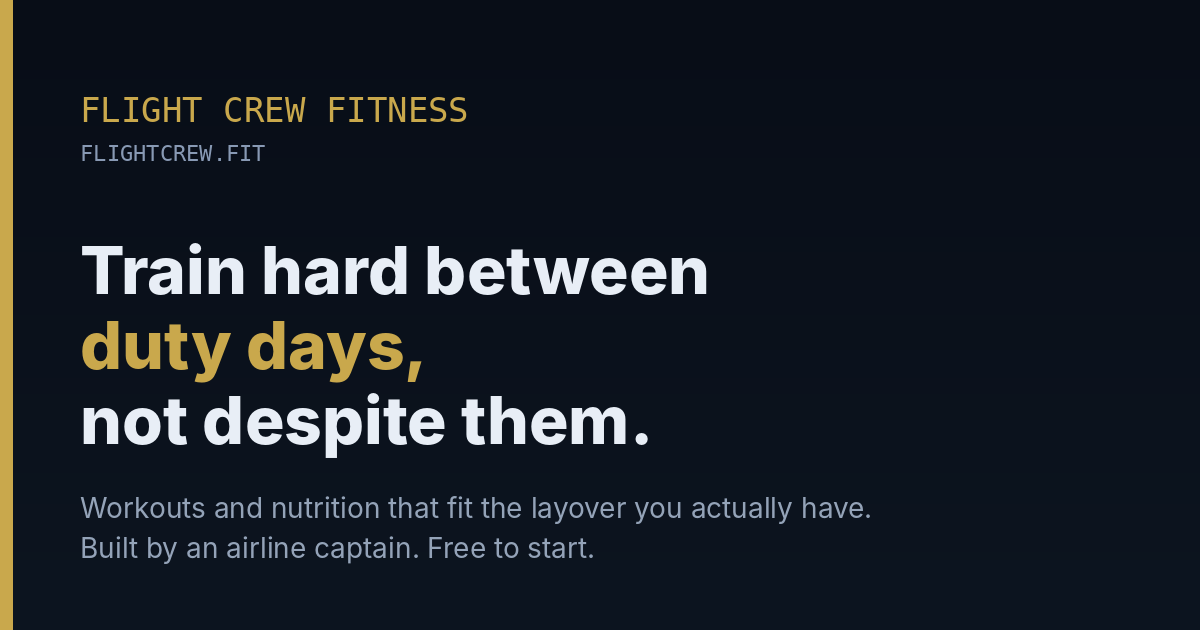
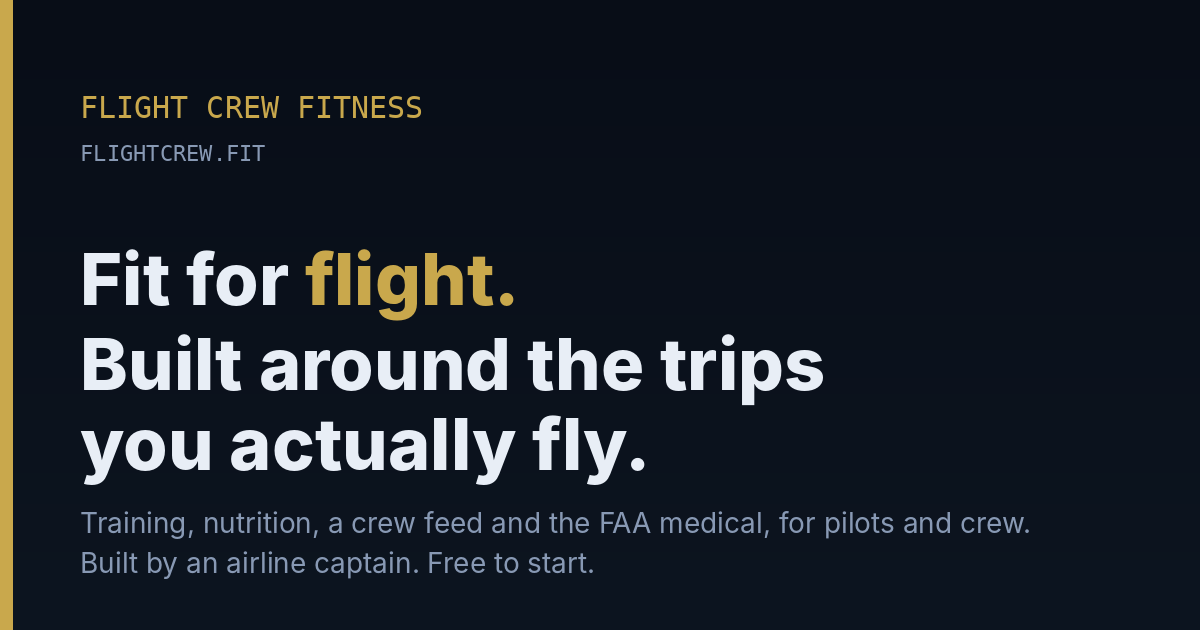
v5.47.0: FAA Medical open to every member; new tagline and landing pitch (medical, schedule, crew feed, runner)
Claude-Session: https://claude.ai/code/session_01BVoUbFk8xAKqzKGPpffvm6

Changed region(s): [[0.0617, 0.3921, 0.8633, 0.9349], [0.0617, 0.1508, 0.4008, 0.2111]]

diff --git a/index.html b/index.html
@@ -10,7 +10,7 @@
 <meta name="apple-mobile-web-app-status-bar-style" content="black-translucent">
 <meta name="apple-mobile-web-app-title" content="Flight Crew Fitness">
 <meta name="theme-color" content="#0a0f1a">
-<meta name="description" content="Flight Crew Fitness is the workout and nutrition app for airline pilots and flight crew. Training that adapts to your layover, hotel gym, fatigue and crew schedule. Built by an airline captain. Free to start.">
+<meta name="description" content="Flight Crew Fitness is the workout, nutrition and FAA medical app for airline pilots and flight crew. Training that adapts to your crew schedule, hotel gym and sleep, a crew feed, and medical readiness. Built by an airline captain. Free to start.">
 <link rel="canonical" href="https://flightcrew.fit/">
 <meta property="og:title" content="Flight Crew Fitness: Workout App for Pilots and Flight Crew">
 <meta property="og:description" content="Workouts and nutrition that fit the layover you actually have. Built by an airline captain. Free to start.">
@@ -19,7 +19,7 @@
 <meta property="og:image" content="https://flightcrew.fit/og-image.png">
 <meta property="og:image:width" content="1200">
 <meta property="og:image:height" content="630">
-<meta property="og:image:alt" content="Flight Crew Fitness: Train hard between duty days, not despite them.">
+<meta property="og:image:alt" content="Flight Crew Fitness: Fit for flight. Built around the trips you actually fly.">
 <meta property="og:site_name" content="Flight Crew Fitness">
 <meta name="twitter:card" content="summary_large_image">
 <meta name="twitter:title" content="Flight Crew Fitness: Workout App for Pilots and Flight Crew">
@@ -37,7 +37,7 @@
       "url": "https://flightcrew.fit/",
       "applicationCategory": "HealthApplication",
       "operatingSystem": "Web, iOS",
-      "description": "Workout and nutrition app for airline pilots and flight crew. Training that adapts to your layover, hotel gym, fatigue and crew schedule.",
+      "description": "Workout, nutrition and FAA medical readiness app for airline pilots and flight crew. Training that adapts to your crew schedule, hotel gym and sleep, with a crew feed and a medication check against the FAA lists.",
       "image": "https://flightcrew.fit/og-image.png",
       "offers": {
         "@type": "Offer",
@@ -61,7 +61,7 @@
         {
           "@type": "Question",
           "name": "Is Flight Crew Fitness free?",
-          "acceptedAnswer": { "@type": "Answer", "text": "Yes. Workout logging, basic trends, hydration and pre-flight reminders, and medication and supplement reminders are free with no credit card. Pro adds the AI coach, unlimited food photo analysis, full trends history, Oura direct connect and more." }
+          "acceptedAnswer": { "@type": "Answer", "text": "Yes. Workout logging, basic trends, hydration and pre-flight reminders, medication and supplement reminders, the crew feed and the FAA Medical page are free with no credit card. Pro adds the AI coach, unlimited food photo analysis, full trends history, Oura direct connect and more." }
         },
         {
           "@type": "Question",
@@ -72,6 +72,11 @@
           "@type": "Question",
           "name": "Does it use my crew schedule?",
           "acceptedAnswer": { "@type": "Answer", "text": "Yes. Import your duty days and the app plans training and nutrition around duty events, layovers and commuter days instead of a nine to five you do not have." }
+        },
+        {
+          "@type": "Question",
+          "name": "Does the app send my medical information anywhere?",
+          "acceptedAnswer": { "@type": "Answer", "text": "No. Everything on the FAA Medical page, including certificate dates, medications, vision results and the PIN, stays on the phone. It is not synced, not sent to the AI coach, and not included in the data export." }
         },
         {
           "@type": "Question",
@@ -420,9 +425,9 @@ a{color:inherit}
   <header class="landing-hero">
     <div class="fb" style="align-items:flex-start"><div class="landing-logo">✈ FLIGHT CREW FITNESS</div>
     <div id="zuluClock" style="font-family:var(--mono);font-size:0.6875rem;color:var(--muted);letter-spacing:0.05em;white-space:nowrap"></div></div>
-    <div class="landing-tag">THE WORKOUT AND NUTRITION APP FOR PILOTS AND FLIGHT CREW</div>
-    <h1 class="landing-h1">Train hard between <span class="accent">duty days</span>, not despite them.</h1>
-    <p class="landing-sub">A workout system that adapts to your gym access, your fatigue level, and your crew schedule, whether you're home, on layover, or stuck with nothing but a hotel room.</p>
+    <div class="landing-tag">WORKOUTS, NUTRITION AND THE FAA MEDICAL, FOR PILOTS AND FLIGHT CREW</div>
+    <h1 class="landing-h1">Fit for <span class="accent">flight</span>. Built around the trips you actually fly.</h1>
+    <p class="landing-sub">Training that reads your crew schedule, your sleep and the room you are in. Nutrition that survives a four-day. A crew feed to keep you honest. And the FAA medical, tracked the way an AME reads it.</p>
     <div class="landing-cta">
       <button class="btn btn-gold" onclick="ST.showLanding=false;ST.authMode='signup';renderRoot()">Get Started Free</button>
       <button class="btn btn-outline mt8" onclick="ST.showLanding=false;ST.authMode='signin';renderRoot()">I have an account</button>
@@ -432,6 +437,10 @@ a{color:inherit}
 
   <section class="landing-section">
     <h2 class="landing-section-title">Why pilots need a different program</h2>
+    <div class="feature-row"><div class="feature-icon">🩺</div><div class="feature-text"><h4>FAA medical, tracked the way your AME reads it</h4><p>Enter your class, seat and exam date and see the exact day each privilege ends, whether an ECG is due, and how your blood pressure, glucose and weight sit against the FAA lines. Check any medication or supplement against the FAA do-not-issue and do-not-fly lists, nearly 300 drugs with plain-language notes. Test your near, mid and distance vision on the phone. Everything stays on your device.</p></div></div>
+    <div class="feature-row"><div class="feature-icon">📅</div><div class="feature-text"><h4>Reads your crew schedule</h4><p>Import your trips and the app knows a 10-hour layover from a 26-hour one, a commute day from a reserve day, and plans training and meals around what you are actually doing.</p></div></div>
+    <div class="feature-row"><div class="feature-icon">👥</div><div class="feature-text"><h4>Crew feed</h4><p>Opt in under a call sign and every workout posts to a feed of other pilots and crew: kudos, comments, follow people, and a board of who is training at your base this month. Share your workout as a picture to Instagram or Messages. No location beyond the airport code you choose to show.</p></div></div>
+    <div class="feature-row"><div class="feature-icon">🏃</div><div class="feature-text"><h4>Runner mode</h4><p>Pick the Runner objective and get a weekly mileage plan that fits around your trips: easy days, one long run, one strength day placed away from it, plus best efforts at the mile, 5K, 10K and half, and a monthly miles challenge.</p></div></div>
     <div class="feature-row"><div class="feature-icon">🌍</div><div class="feature-text"><h4>Environment-aware workouts</h4><p>Every session adapts automatically to Commercial Gym, Hotel Gym, Hotel Room, or just resistance bands. No equipment excuses.</p></div></div>
     <div class="feature-row"><div class="feature-icon">🚦</div><div class="feature-text"><h4>Fatigue-gated intensity</h4><p>A pilot condition toggle (Go / Marginal / No-Go) reduces or removes heavy lifting when you're running on insufficient rest, auto-set from Apple Health if you sync a wearable, or a 15-second self-check if you don't.</p></div></div>
     <div class="feature-row"><div class="feature-icon">⌚</div><div class="feature-text"><h4>Wearable auto-sync</h4><p>Connect once via Apple Health and your daily readiness, sleep, HRV, resting heart rate, steps, and workouts drive your training automatically. It works with Apple Watch, Oura, Whoop, Garmin, or anything else that writes to Health. Connect Oura directly for its own full readiness score.</p></div></div>
@@ -440,10 +449,10 @@ a{color:inherit}
     <div class="feature-row"><div class="feature-icon">🎖</div><div class="feature-text"><h4>Badges for reaching goals</h4><p>Hit a personal record, a training streak, or a milestone and it gets recognized automatically, pulled from your real logged history, not just a login count.</p></div></div>
     <div class="feature-row"><div class="feature-icon">🩹</div><div class="feature-text"><h4>Injury-aware programming</h4><p>Flag a sore shoulder or knee and the app automatically swaps in a safer alternative where one exists, or flags the exercise so you can decide, instead of just handing you the same plan regardless.</p></div></div>
     <div class="feature-row"><div class="feature-icon">⏱</div><div class="feature-text"><h4>Fits the time you actually have</h4><p>Tell it how much time you've got and it trims the session to fit, protecting your warmup and cooldown, never your actual lift.</p></div></div>
-    <div class="feature-row"><div class="feature-icon">🎯</div><div class="feature-text"><h4>Goal-driven programming</h4><p>Nine mission objectives (from Walking First and Runner to Glute Emphasis and Overall Strength), each with real, distinct exercise programming behind it, not just a label.</p></div></div>
+    <div class="feature-row"><div class="feature-icon">🎯</div><div class="feature-text"><h4>Goal-driven programming</h4><p>Nine mission objectives, from Walking First and Runner to Glute Emphasis and Overall Strength, each with real, distinct programming behind it, not just a label.</p></div></div>
     <div class="feature-row"><div class="feature-icon">💧</div><div class="feature-text"><h4>Hydration math built in</h4><p>0.3L per flight hour, with a sensible floor on no-fly days. The app tells you exactly how much to drink and when.</p></div></div>
     <div class="feature-row"><div class="feature-icon">🛫</div><div class="feature-text"><h4>Aviation-phased structure</h4><p>Every workout follows Taxi (warmup), Takeoff (heavy), En Route (volume), Landing (decompression): a logical, recoverable structure, not just a random exercise list.</p></div></div>
-    <div class="feature-row"><div class="feature-icon">📊</div><div class="feature-text"><h4>Real biometric tracking</h4><p>Weight, waist, blood pressure, and fasting glucose, with the actual clinical protocol for measuring each one correctly. Watch the numbers your AME reads move before your next medical.</p></div></div>
+    <div class="feature-row"><div class="feature-icon">📊</div><div class="feature-text"><h4>Real biometric tracking</h4><p>Weight, waist, blood pressure, and fasting glucose, with the clinical protocol for measuring each one correctly. The FAA Medical page shows the same numbers against the lines your AME uses.</p></div></div>
     <div class="feature-row"><div class="feature-icon">💊</div><div class="feature-text"><h4>Meds and supplements on schedule</h4><p>Log anything you take, from creatine to prescriptions, with the dose and times. Check doses off on your Today screen, get a phone reminder when one is due, and include the history in your data export for AI analysis. Private to your account.</p></div></div>
     <div class="feature-row"><div class="feature-icon">📶</div><div class="feature-text"><h4>Works with no signal</h4><p>Keeps working with zero connectivity: at altitude, in a dead-zone layover hotel, wherever.</p></div></div>
   </section>
@@ -466,9 +475,10 @@ a{color:inherit}
 
   <section class="landing-section" style="background:var(--bg2)" id="faq">
     <h2 class="landing-section-title">Questions pilots ask</h2>
-    <div class="feature-text" style="margin-bottom:18px"><h4>Is it free?</h4><p>Yes. Workout logging, basic trends, hydration and pre-flight reminders, and medication and supplement reminders are free, with no credit card. Pro adds the AI coach, unlimited food photo analysis, full trends history, Oura direct connect and more.</p></div>
+    <div class="feature-text" style="margin-bottom:18px"><h4>Is it free?</h4><p>Yes. Workout logging, basic trends, hydration and pre-flight reminders, medication and supplement reminders, the crew feed and the FAA Medical page are free, with no credit card. Pro adds the AI coach, unlimited food photo analysis, full trends history, Oura direct connect and more.</p></div>
     <div class="feature-text" style="margin-bottom:18px"><h4>Does it work in a hotel room with no equipment?</h4><p>Yes. Hotel room sessions use no jumping, so thin floors and downstairs neighbours are not a problem.</p></div>
     <div class="feature-text" style="margin-bottom:18px"><h4>Does it use my crew schedule?</h4><p>Yes. Import your duty days and the app plans training and nutrition around duty events, layovers and commuter days.</p></div>
+    <div class="feature-text" style="margin-bottom:18px"><h4>Does the app send my medical information anywhere?</h4><p>No. Everything on the FAA Medical page, your certificate dates, medications, vision results and PIN, stays on your phone. It is not synced, not sent to the coach, and not in your data export.</p></div>
     <div class="feature-text" style="margin-bottom:18px"><h4>Which wearables does it support?</h4><p>Apple Watch, Oura, Whoop, Garmin and anything else that writes to Apple Health. Oura can also be connected directly.</p></div>
     <div class="feature-text"><h4>Is there an iPhone app?</h4><p>The iOS app is in App Store review. The web app works today in Safari and can be added to your Home Screen. Your account carries over the day the App Store version lands.</p></div>
   </section>

diff --git a/app.js b/app.js
@@ -1,10 +1,10 @@
  /**
  * Flight Crew Fitness — app.js
- * Version/build: fcf-v5.46.11 / 20261019_6
+ * Version/build: fcf-v5.47.0 / 20261022_1
  */
 
-const FCF_VERSION = 'fcf-v5.46.11';
-const FCF_BUILD   = '20261019_6';
+const FCF_VERSION = 'fcf-v5.47.0';
+const FCF_BUILD   = '20261022_1';
 // Signed-out landing page markup, served in index.html for SEO. Read once
 // here, before any render touches #mainPage.
 const STATIC_LANDING_HTML = (document.getElementById('mainPage') || {}).innerHTML || '';
@@ -14456,8 +14456,10 @@ const FAA_DNI_DNF_URL = 'https://www.faa.gov/ame_guide/pharm/dni_dnf';
 const MED_CLASS_WORD = ['', 'first', 'second', 'third'];
 const MED_SEATS = [['', 'Choose your seat'], ['capt', 'Captain (Part 121, or any ATP pilot in command)'], ['fo', 'First officer (Part 121 airline)'], ['other', 'Other: charter, corporate, instructor, private']];
 
+// Oct 22 2026: open to every signed-in member (owner's call). Everything on
+// the Medical page stays on the device; the server never sees it.
 function medicalEnabled() {
-  return !!(ST.user && MEDICAL_OWNER_IDS.includes(ST.user.id));
+  return !!ST.user;
 }
 
 function medicalRecord() {
@@ -15377,7 +15379,7 @@ function renderMore(p) {
   parts.push(item('👤','Pilot Profile','Identity, metrics &amp; mission objectives',"switchTab('profile')"));
   parts.push(item('⌚','Connected Devices','Apple Health, Apple Watch, Oura Ring',"switchTab('devices')"));
   if (ST.trackNutrition) parts.push(item('🍽','Nutrition Log','Log meals, search foods, track macros',"switchTab('nutrition')"));
-  if (medicalEnabled()) parts.push(item('🩺','FAA Medical','Certificate dates, medication check, exam prep (preview)',"switchTab('medical')"));
+  if (medicalEnabled()) parts.push(item('🩺','FAA Medical','Certificate dates, medication check, vision, your numbers vs the FAA lines',"switchTab('medical')"));
   parts.push(item('📊','Data & Import/Export','Flight schedule import, CSV export, AI prompt',"switchTab('data')"));
   parts.push(item('📖','Flight Deck Wisdom','Daily training wisdom cards',"switchTab('wisdom')"));
 

diff --git a/sw.js b/sw.js
@@ -1,6 +1,6 @@
 // Flight Crew Fitness — Service Worker
-// Version: 5.46.11
-const CACHE = 'fcf-v5.46.11';
+// Version: 5.47.0
+const CACHE = 'fcf-v5.47.0';
 const CORE = [
   './',
   './index.html',
